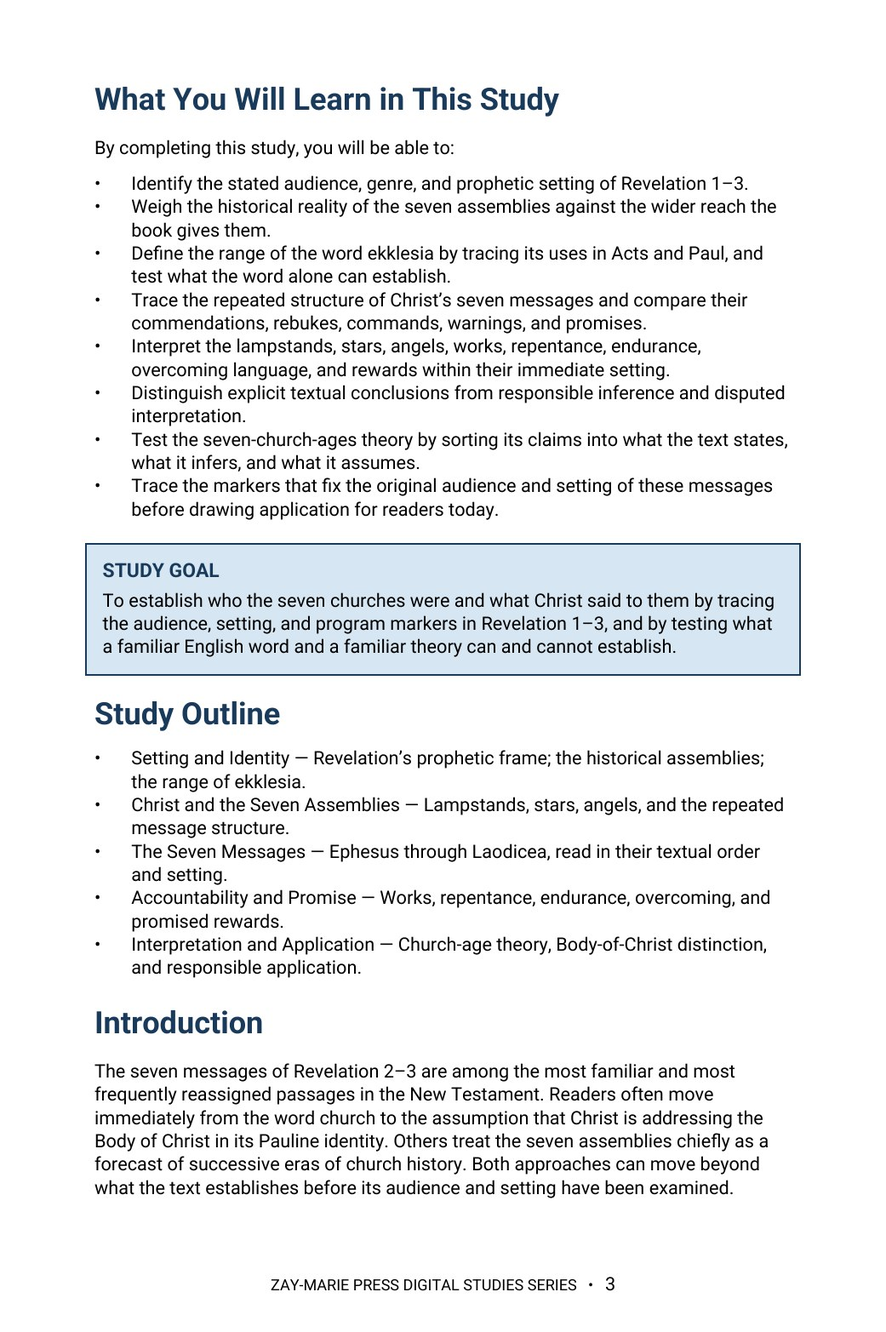
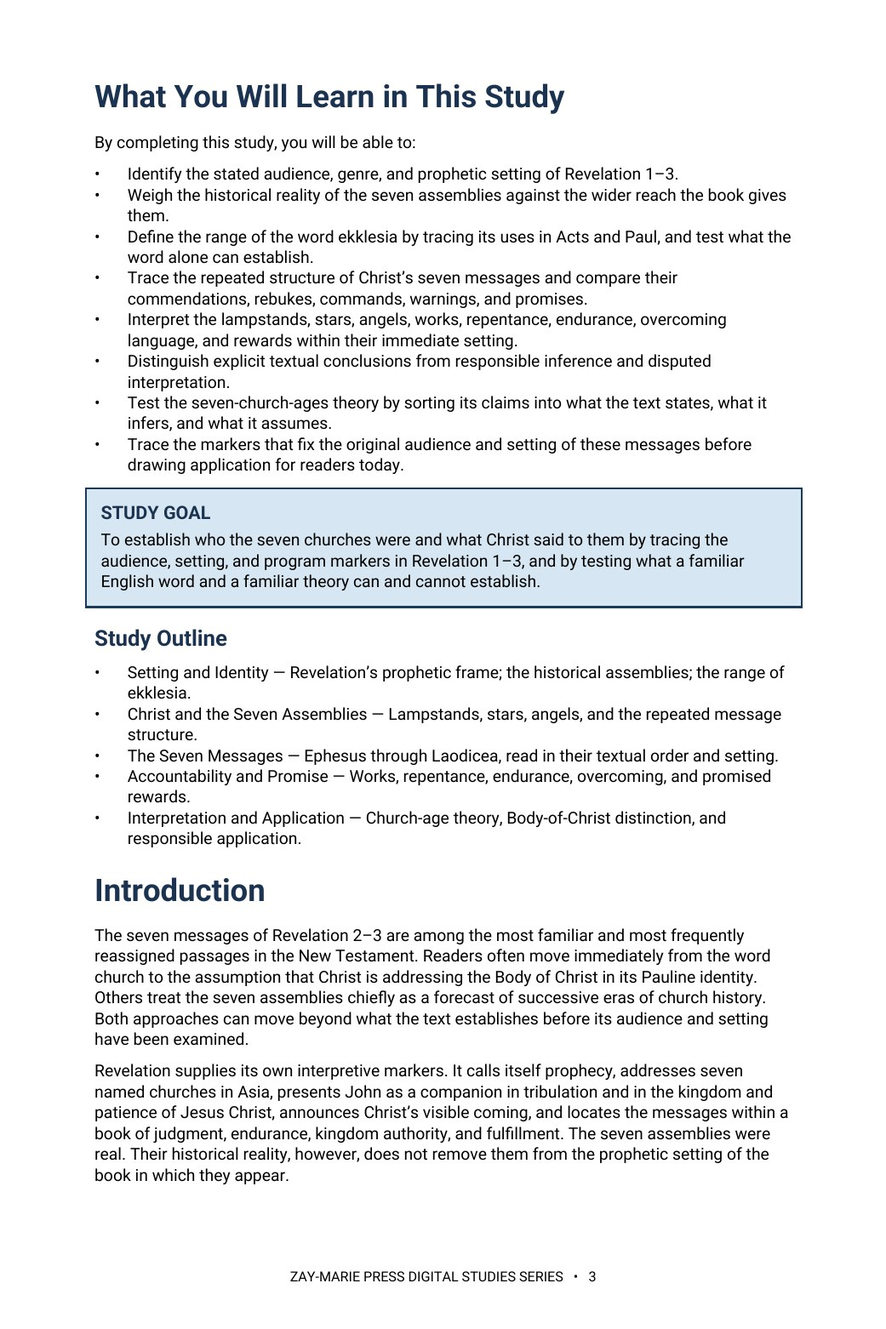
Study 26: retrofit website step (16 pages, previews 2/3/10, trackers v1.37/v1.131)
Claude-Session: https://claude.ai/code/session_01KcENxFzE91mCRyTPWhcwnE

Changed region(s): [[0.0922, 0.0615, 0.9222, 0.9219], [0.3074, 0.9526, 0.6455, 0.9834]]

diff --git a/study-26-the-seven-churches-of-revelation.html b/study-26-the-seven-churches-of-revelation.html
@@ -7,7 +7,7 @@
 <section class="detail-section soft"><div class="wrap"><div class="eyebrow">WHAT YOU’LL STUDY</div><h2>Identify the Assemblies Before Assigning Their Messages</h2><div class="study-points"><div class="study-point"><h3>Revelation’s Prophetic Setting</h3><p>Identify the audience, genre, kingdom language, coming judgment, and prophetic markers supplied by Revelation itself.</p></div><div class="study-point"><h3>Seven Historical Assemblies</h3><p>Examine the named cities and the real conditions Christ commends, exposes, corrects, and judges.</p></div><div class="study-point"><h3>Ekklesia and Identity</h3><p>Trace how the Greek word for assembly is used in Acts and Paul, and test what the word alone can establish.</p></div><div class="study-point"><h3>Christ Among the Lampstands</h3><p>Interpret the lampstands, stars, and angels within Christ’s authority over the seven assemblies.</p></div><div class="study-point"><h3>Overcoming and Reward</h3><p>Trace repentance, endurance, promised rewards, and their connections with Revelation’s later chapters.</p></div><div class="study-point"><h3>The Church-Ages Theory</h3><p>Test the seven-age interpretation by sorting its claims into what the text states, what it infers, and what it assumes.</p></div></div></div></section>
 <section class="detail-section cream"><div class="wrap"><div class="eyebrow">KEY SCRIPTURES</div><h2>Trace the Messages Through Revelation</h2><div class="scripture-grid"><div class="scripture-card"><h3>Revelation 1:1–11</h3><p>Prophecy, named recipients, Christ’s coming, tribulation, kingdom, and the command to write.</p></div><div class="scripture-card"><h3>Revelation 1:12–20</h3><p>Christ among the lampstands and the inspired identification of the stars and lampstands.</p></div><div class="scripture-card"><h3>Revelation 2:1–29</h3><p>Ephesus, Smyrna, Pergamos, and Thyatira: commendation, rebuke, repentance, endurance, and promise.</p></div><div class="scripture-card"><h3>Revelation 3:1–22</h3><p>Sardis, Philadelphia, and Laodicea: watchfulness, preservation, correction, and inheritance.</p></div><div class="scripture-card"><h3>Psalm 2:1–12</h3><p>Messianic authority over the nations behind the promise in Revelation 2:26–27.</p></div><div class="scripture-card"><h3>Isaiah 22:20–25</h3><p>The key imagery Christ applies to His authority in Revelation 3:7.</p></div><div class="scripture-card"><h3>Revelation 20–22</h3><p>Reign, the second death, New Jerusalem, the tree of life, and promised inheritance.</p></div><div class="scripture-card"><h3>Ephesians 1:15–23; 3:1–12</h3><p>The Body’s identity and Mystery setting revealed through Paul for careful comparison.</p></div></div></div></section>
 <section class="detail-section"><div class="wrap"><div class="eyebrow">FROM THE STUDY</div><h2>Meaning Comes Before Assignment</h2><div class="excerpt"><blockquote>“The word church identifies an assembly. It does not, by itself, identify that assembly as the Church which is Christ’s Body.”</blockquote><p>Revelation’s audience markers, prophetic setting, warnings, rewards, and internal connections must govern the identity and assignment of the seven messages.</p></div></div></section>
-<section class="detail-section soft"><div class="wrap"><div class="eyebrow">A LOOK INSIDE</div><h2>Preview the Study Before You Purchase</h2><p class="preview-instruction">Click any page to enlarge it for reading.</p><div class="preview-grid"><div class="preview-card"><a class="preview-image-link" data-preview-lightbox href="assets/study-26-page-2.jpg"><img src="assets/study-26-page-2.jpg" alt="Study 26 interior preview — page 2, table of contents"/></a><div class="page-no">Page 2</div><h3>Table of Contents</h3><p>See the full structure of the study, from the introduction through the final synthesis.</p></div><div class="preview-card"><a class="preview-image-link" data-preview-lightbox href="assets/study-26-page-3.jpg"><img src="assets/study-26-page-3.jpg" alt="Study 26 interior preview — page 3, what you will learn"/></a><div class="page-no">Page 3</div><h3>What You Will Learn</h3><p>See the skills you will practice and the study goal at a glance.</p></div><div class="preview-card"><a class="preview-image-link" data-preview-lightbox href="assets/study-26-page-11.jpg"><img src="assets/study-26-page-11.jpg" alt="Study 26 interior preview — page 11, the promises to the overcomers"/></a><div class="page-no">Page 11</div><h3>The Promises to the Overcomers</h3><p>Follow each promise to the overcomer into Revelation’s closing chapters.</p></div></div></div></section>
+<section class="detail-section soft"><div class="wrap"><div class="eyebrow">A LOOK INSIDE</div><h2>Preview the Study Before You Purchase</h2><p class="preview-instruction">Click any page to enlarge it for reading.</p><div class="preview-grid"><div class="preview-card"><a class="preview-image-link" data-preview-lightbox href="assets/study-26-page-2.jpg"><img src="assets/study-26-page-2.jpg" alt="Study 26 interior preview — page 2, table of contents"/></a><div class="page-no">Page 2</div><h3>Table of Contents</h3><p>See the full structure of the study, from the introduction through the final synthesis.</p></div><div class="preview-card"><a class="preview-image-link" data-preview-lightbox href="assets/study-26-page-3.jpg"><img src="assets/study-26-page-3.jpg" alt="Study 26 interior preview — page 3, what you will learn"/></a><div class="page-no">Page 3</div><h3>What You Will Learn</h3><p>See the skills you will practice and the study goal at a glance.</p></div><div class="preview-card"><a class="preview-image-link" data-preview-lightbox href="assets/study-26-page-10.jpg"><img src="assets/study-26-page-10.jpg" alt="Study 26 interior preview — page 10, the promises to the overcomers"/></a><div class="page-no">Page 11</div><h3>The Promises to the Overcomers</h3><p>Follow each promise to the overcomer into Revelation’s closing chapters.</p></div></div></div></section>
 <section class="detail-section"><div class="wrap"><div class="eyebrow">WHAT’S INCLUDED</div><h2>A Focused Study Built for<br>Understanding and Teaching</h2><div class="includes-grid"><div class="include-item"><h3>Prophetic Setting</h3><p>Read Revelation 1–3 within the genre, audience, kingdom, tribulation, and judgment markers supplied by the book.</p></div><div class="include-item"><h3>Historical Assemblies</h3><p>Examine all seven named churches and the specific conditions Christ addresses in each assembly.</p></div><div class="include-item"><h3>Ekklesia Word Study</h3><p>Distinguish the lexical meaning of assembly from the theological identity established by context and revelation.</p></div><div class="include-item"><h3>Message Structure</h3><p>Compare Christ’s self-identification, knowledge, evaluation, commands, warnings, calls to hear, and promises.</p></div><div class="include-item"><h3>Overcomer Promises</h3><p>Trace life, vindication, kingdom authority, throne, temple, and New Jerusalem themes through Revelation.</p></div><div class="include-item"><h3>Evidence Categories</h3><p>Separate explicit textual conclusions, responsible inferences, and disputed interpretations.</p></div><div class="include-item"><h3>Programmatic Distinction</h3><p>Compare Revelation’s prophetic markers with the Mystery identity of the Body revealed through Paul.</p></div><div class="include-item"><h3>Teaching and Discussion Tools</h3><p>Use the summary, key distinctions, Scripture tracing, review questions, teaching outline, and guided further study.</p></div></div></div></section>
 <section class="detail-section cream"><div class="wrap"><div class="final-buy"><div><div class="eyebrow">STUDY 26 · DIGITAL STUDY</div><h2>The Seven Churches of Revelation</h2><p>Digital PDF · For personal use</p></div><div class="final-offer"><div class="detail-price">$5.99</div><span class="detail-button pending" aria-disabled="true">Checkout Coming Soon</span></div></div><a class="back-link" href="digital-studies.html">← Back to All Digital Studies</a></div></section><section class="study-method-course-bridge"><div class="wrap"><div class="study-method-course-panel"><div><div class="eyebrow">BUILD THE INTERPRETIVE METHOD</div><h2>Want More Than a Focused Study?</h2><p>Digital Studies examine particular biblical subjects and difficult passages. The 40-lesson Biblical Hermeneutics course teaches a complete, repeatable method for establishing meaning in context, determining proper assignment, and making responsible application.</p></div><a class="btn btn-primary" href="biblical-hermeneutics-course.html">BIBLICAL HERMENEUTICS COURSE</a></div></div></section></main>
 <div class="preview-lightbox" id="preview-lightbox" role="dialog" aria-modal="true" aria-label="Expanded study preview"><button class="preview-lightbox-close" type="button" aria-label="Close preview">×</button><img id="preview-lightbox-image" alt=""></div><footer class="site-footer"><div class="wrap footer-grid"><div class="footer-about"><h3>Zay-Marie Press</h3><p class="footer-tagline"><em>Where the Bible Means What It Says.</em></p><p>Zay-Marie Press is a Christian theological publisher dedicated to producing doctrinally precise, carefully structured biblical resources that equip pastors, teachers, and serious students with clarity, depth, and Scripture-anchored truth.</p><p><a href="https://zaymariepress.com">zaymariepress.com</a><br/><a href="mailto:info@zaymariepress.com">info@zaymariepress.com</a></p></div><div class="footer-column"><h3>Explore</h3><div class="footer-links-stacked"><a href="books.html">Books</a><br/><a href="series.html">Series</a><br/><a href="biblical-hermeneutics-course.html">Course</a><br/><a href="digital-studies.html">Digital Studies</a><br/><a href="resources.html">Resources</a><br/><a href="bible-book-summaries.html">Bible Book Summaries</a><br/><a href="doctrinal-packets.html">Doctrinal Packets</a><br/><a href="historical-drift.html">Historical Drift</a><br/><a href="about.html">About</a><br/><a href="contact.html">Contact</a></div></div><div class="footer-column"><h3>Reader Support</h3><div class="footer-links-stacked"><a href="reader-support.html#faq">FAQ</a><br/><a href="reader-support.html#shipping-returns">Shipping &amp; Returns</a><br/><a href="reader-support.html#digital-downloads">Digital Downloads</a><br/><a href="reader-support.html#contact-support">Contact Support</a></div></div><div class="footer-column"><h3>Acts Overlap</h3><p><strong>Acts Overlap Theology Series</strong></p><p><em>Two Distinct Streams. One Overlap.</em></p><p><a href="series.html">Series Overview</a></p></div></div><div class="wrap footer-bottom">© 2026 Zay-Marie Press. All rights reserved.</div></footer><script src="site.js"></script><script>const lightbox=document.getElementById('preview-lightbox'),lightboxImage=document.getElementById('preview-lightbox-image'),closeLightbox=()=>{lightbox.classList.remove('open');lightboxImage.src='';};document.querySelectorAll('[data-preview-lightbox]').forEach(link=>link.addEventListener('click',event=>{event.preventDefault();lightboxImage.src=link.href;lightboxImage.alt=link.querySelector('img').alt;lightbox.classList.add('open');}));document.querySelector('.preview-lightbox-close').addEventListener('click',closeLightbox);lightbox.addEventListener('click',event=>{if(event.target===lightbox)closeLightbox();});document.addEventListener('keydown',event=>{if(event.key==='Escape')closeLightbox();});</script></body></html>

diff --git a/site.js b/site.js
@@ -62,7 +62,7 @@ const resourceModal=document.querySelector('#resource-modal'), resourceModalTitl
 if(resourceModal&&resourceModalTriggers.length){const closeResourceModal=()=>{resourceModal.hidden=true;document.body.classList.remove('resource-modal-open');lastResourceTrigger?.focus();};resourceModalTriggers.forEach(trigger=>trigger.addEventListener('click',()=>{lastResourceTrigger=trigger;if(resourceModalTitle)resourceModalTitle.textContent=trigger.dataset.title||'Resource';if(resourceModalDescription)resourceModalDescription.textContent=trigger.dataset.description||'';if(resourceModalLink){resourceModalLink.href=trigger.dataset.href||'#';resourceModalLink.textContent=trigger.dataset.linkText||'OPEN RESOURCE';}resourceModal.hidden=false;document.body.classList.add('resource-modal-open');resourceModalClose?.focus();}));resourceModalClose?.addEventListener('click',closeResourceModal);resourceModal.addEventListener('click',e=>{if(e.target===resourceModal)closeResourceModal();});document.addEventListener('keydown',e=>{if(e.key==='Escape'&&!resourceModal.hidden)closeResourceModal();});}
 
 /* Display the verified final-PDF page count at the primary purchase decision point. */
-const digitalStudyPageCounts={1:17,2:14,3:16,4:18,5:16,6:16,7:14,8:13,9:16,10:20,11:15,12:15,13:19,14:15,15:16,16:16,17:18,18:18,19:16,20:16,21:17,22:16,23:14,24:16,25:17,26:18,27:16,28:16,29:16,30:17,31:19,32:16,33:16,34:16,35:16,36:16,37:16,38:16,39:16,40:16,41:16,42:16,43:16,44:16,45:16,46:16,47:16,48:16,49:17,50:16,51:16,52:16,53:16,54:16,55:16,56:16,57:16,58:16,61:16,62:16,63:16,64:16,65:16,66:16,67:16,68:16,69:16,70:16,71:16};
+const digitalStudyPageCounts={1:17,2:14,3:16,4:18,5:16,6:16,7:14,8:13,9:16,10:20,11:15,12:15,13:19,14:15,15:16,16:16,17:18,18:18,19:16,20:16,21:17,22:16,23:14,24:16,25:17,26:16,27:16,28:16,29:16,30:17,31:19,32:16,33:16,34:16,35:16,36:16,37:16,38:16,39:16,40:16,41:16,42:16,43:16,44:16,45:16,46:16,47:16,48:16,49:17,50:16,51:16,52:16,53:16,54:16,55:16,56:16,57:16,58:16,61:16,62:16,63:16,64:16,65:16,66:16,67:16,68:16,69:16,70:16,71:16};
 const digitalStudyMatch=window.location.pathname.match(/\/study-(\d+)-/i);
 const digitalStudyFormat=document.querySelector('.detail-hero .detail-format');
 if(digitalStudyMatch&&digitalStudyFormat){const studyNumber=Number(digitalStudyMatch[1]),pageCount=digitalStudyPageCounts[studyNumber];if(pageCount)digitalStudyFormat.textContent=`Digital PDF · ${pageCount} Pages`;}

diff --git a/CLAUDE.md b/CLAUDE.md
@@ -20,7 +20,7 @@ These are kept in the repo at `controlling-documents/` and are the current versi
 - As of v1.47 (publisher directive, 2026-10-02), §6 adds the **Interior Page Geometry and Text Layout Standard**, written into this file in the same pass: every Digital Study, earlier studies included, is set on the later studies' page and layout, not only in Roboto at the same sizes. Page 483.846 × 725.754 pt (9677 × 14515 twips) for cover and interior; cover its own full-bleed section (360 twip margins, no footer); interior margins top 864, bottom 1224, left/right 1031, header 400, footer 475; body left-aligned and flush left with no first-line indent (9 pt black Roboto Regular, 6 pt after, 0 before, 1.08); bold only for run-in leads ("Read:", "Purpose:", "Bring Your Findings Together:") and short emphasis, never a whole paragraph; lists 0 pt after each item and 6 pt after the last, 1.08; callout boxes 7815 twips wide with −100 twip indent; TOC right tab with dot leaders at 7615 twips; only the TOC and What You Will Learn start new pages, later sections flow continuously, and the imprint never stands alone. An earlier study built on any other page size (Letter 612 × 792, 432 × 648) is rebuilt to this geometry when reopened or retrofitted, the page count is recounted and the website updated, and the Heading 1 14 pt / TOC-spacing exemptions for Studies 1–5 and 9 no longer apply to a reopened study. In every study check (Step 1) measure page size, margins, first-line indents, whole-paragraph bold, list spacing, callout width and the TOC tab against Study 52 and report differences. Study 1 is the first earlier study rebuilt to it (17 pages). Preview images are rendered at the page's own aspect (1041×1562 for this page), not stretched.
 **`controlling-documents/Digital_Studies_Relationship_Map_v1.39.md`** — records each study's distinct subject, its related studies, the eight priced six-study collections, the Paul's Missionary Journeys cross-reference map, and the five primary catalog categories (currently version 1.39, covers Studies 1–71; update it as new studies publish, bump the version number, rename the file to match, and log the change in its own version-history table — mirroring the Master Standard's `_vX.Y` filename convention). Check a proposed topic against it before recommending or writing a new study. (2026-09-28: the file was missing from this repo despite this note referencing it; replaced from the publisher's copy and bumped v1.15→v1.25 in the same pass. If this note ever again points to a version not present under `controlling-documents/`, ask the publisher for a copy rather than proceeding without the check.)
 - **`controlling-documents/Digital_Studies_Category_Standard_v1.1.md`** — FINAL and binding (publisher, 2026-10-01): the rules for the five primary catalog categories (Foundations, Israel & Prophecy, Body of Christ, Passages, Doctrinal Themes), the ordered decision procedure for new studies, the precedents, all 71 fixed assignments, and the cover-label form for each category. Read it before placing any card or cover label. Do not ask the publisher where a study belongs; apply the procedure and state the result. Only the publisher changes a ruling; then bump this Standard's version and filename, re-letter the cover, and update the Relationship Map.
-- **`controlling-documents/Doctrinal_Upgrade_Retrofit_Plan_v1.36.md`** — working tracker for retrofitting Studies 1–59 to the 2026-10-02 doctrinal upgrade (Framework/PAM v1.1, Master Standard v1.40, Rules 7–17): withdrawn-wording search keys, impact tiers, waves and the per-study method. Read it before continuing the retrofit in any session; update status, bump the version and rename the file as work proceeds.
+- **`controlling-documents/Doctrinal_Upgrade_Retrofit_Plan_v1.37.md`** — working tracker for retrofitting Studies 1–59 to the 2026-10-02 doctrinal upgrade (Framework/PAM v1.1, Master Standard v1.40, Rules 7–17): withdrawn-wording search keys, impact tiers, waves and the per-study method. Read it before continuing the retrofit in any session; update status, bump the version and rename the file as work proceeds.
 - **`controlling-documents/Doctrinal_Packet_Standard_v0.3.md`** — Doctrinal Packet Standard (DRAFT; §7 approved). Governs the separate Doctrinal Packets product strand (5-page interpretive PDFs per Bible book — a print-friendly cover as page 1 plus 4 content pages, $2.99, KJV, pilot: Genesis, live at `packet-genesis.html`, hub `doctrinal-packets.html`; site pages say "5 Pages", cover styles live in `packets.css`, Old Testament blue and New Testament soft pale green, hub listed in Bible order). **Preview rule (publisher directive, 2026-09-29, packets only):** previews show about one page's worth in two cropped views (top of page 1 through the anchor texts; the chart section) — never the exegesis, architecture, Mystery contrast, logic chain, outline, or closing. Master Standard §16/§17 still govern Digital Studies. Bump the version and rename the file as the Standard is finalized.
 - **`controlling-documents/Preview_Page_Spoiler_Retrofit_Audit_v1.4.md`** — working tracker for the Studies 1–60 preview-page conclusion-spoiler retrofit (see the section below). Read it before continuing that audit in any session; update its status fields and changelog, bump the version, and rename the file to match as the audit proceeds — same `_vX.Y` convention as the other controlling documents. As of v1.1, the website-side half was DONE: all 60 studies' "What You'll Study" text was judged against the rule (methodology documented in the file) and 22 points across 11 studies were rewritten and pushed; an unrelated Study 22 content bug (Study 21's content had leaked into it) was also found and fixed. As of v1.2, the publisher supplied Studies 1–60's interior production PDFs and the interior-PDF half was also surveyed (read-only): 10 studies (37, 41, 45, 47, 48, 49, 51, 52, 53, 54) were found to have at least one interior "What You Will Learn" violation, 50 studies were confirmed compliant, and the orphaned `assets/study-45-sanctification-under-grace.docx` (removed from the repo per the publisher in v1.0) was confirmed word-for-word identical to Study 45's actual production interior PDF content. As of v1.3, the publisher supplied editable DOCX sources for all 10 violating studies; all 15 violating points were rewritten and approved, delivered as corrected final PDFs, and — along the way — a second defect was found and fixed (Studies 47 and 48's source DOCX still had an unintegrated cover placeholder despite both being long-published live with real covers; fixed by inserting the existing approved cover art). The website's "What You Will Learn" preview image (`study-NN-page-3.jpg`) was regenerated from the corrected content for all 10 studies and pushed to `main` (commit `cea1859`), verified against a fresh clone. **The website side of this audit is now fully compliant for all 60 studies.** Outstanding: the publisher's purchasable interior PDF files themselves have corrected versions delivered, but distribution to existing purchasers was decided by the publisher on 2026-09-29: silent swap of the files behind the existing downloads, no reissue notice (recorded in the v1.4 changelog entry; the product files are not in this repo).
 

diff --git a/controlling-documents/Doctrinal_Upgrade_Retrofit_Plan_v1.37.md b/controlling-documents/Doctrinal_Upgrade_Retrofit_Plan_v1.37.md
@@ -48,6 +48,7 @@ Working tracker for correcting published studies to the Framework/PAM v1.1, Mast
 | 8 The Day of Christ | Tier 2 read (Day-of-the-Lord boundary, anchors, framework wording) | DONE 2026-10-02 (v1.34): interior corrected and rebuilt to the Study 52 page geometry (13 pp, Roboto Regular/Bold/Italic). Day of Christ / Day of the Lord reading already conformed; added the Body-not-in-the-Day line (section 13) and the Philippians/Thessalonians/Colossians reader-facing anchor; 4 'framework' uses reworded; lowercase 'christ/pauline' and stray capitals fixed; imprint to the standard text. Titus 2:13 left unanchored (no ruling). Website: site.js 8:13, '13-Page', 'ready outline', previews 2/3/5 at 1041x1562. |
 | 10 Daniel's Seventieth Week | Tier 2 read (Acts 28, overlap, remnant, Revelation, Rule 18, Romans 11 passing cite, anchors) | DONE 2026-10-02 (v1.35): no DOCX existed, so a DOCX was rebuilt from the publisher's Roboto PDF (text verified word for word; only the listed edits differ) on the Study 52 page geometry (20 pp). Acts 28 standing wording in five places; overlap and Rule 17 sentences (section 3); Body-absent-from-the-week line; Revelation line; 2 Thessalonians anchor; Rule 18 short form (Investigation 2); Romans 11 four-point note + triad (Investigation 5); 'framework' reworded (section 2 now 'Structure'); imprint standard; approved ISRAEL & PROPHECY cover used (PDF carried an older cover). The page-6 diagram image is unchanged at the publisher's direction (title 'IN THE ACTS OVERLAP FRAMEWORK', 'PROPHECY SUSPENDED' marker, caption). Website: site.js 10:20, '20-Page', 'ready outline', previews 2/3/4 at 1041x1562. Title (Introduction) TOC entry left as published. |
 | 23 The 144,000 | Tier 2 read (Revelation, Body absent, Gentile multitude, Romans 11 passing cite in the diagram, anchors) | DONE 2026-10-02 (v1.36): rebuilt to the Study 52 page geometry (16 → 14 pp, Roboto Regular/Bold). Added the Body-not-in-Revelation line (section 17), Gentile multitude conformed to Rule 14 (section 7), 'Israel remains Israel, and the Body is not Israel' and 'belongs to the Mystery revealed through Paul' (section 18); Romans 11 four boundaries and triad added under the diagram (diagram image unchanged); no anchor needed (Revelation assigned); no internal terms. Third preview is now PDF page 9 (study-23-page-9.jpg). Imprint extra KJV sentence left for Wave 5. |
+| 26 The Seven Churches of Revelation | Tier 2 read (Revelation assigned, Body absent, anchors, internal terms) | DONE 2026-10-02 (v1.37): rebuilt to the Study 52 page geometry (18 → 16 pp, Roboto Regular/Bold). Removed 'The Framework notes', 'The Framework Control Document', 'the Framework’s taxonomy' and the false 'Program Assignment Manual assigns no program to Revelation' line; generic 'framework' removed; hedge replaced by the standing Revelation line (Body absent; Revelation, like Daniel’s 70th week, wholly Israel’s Prophecy Program) in section 14; Philadelphia/Rev 3:10 not a statement about the Body; Colossians anchor added (section 3). Third preview now PDF page 10 (study-26-page-10.jpg). Imprint extra KJV sentence left for Wave 5. |
 | 39 The Church's Relationship to Israel's Scriptures | Abrahamic/covenant participation + overlap sentence | DONE 2026-10-02 (v1.23): interior corrected (16 pp, Roboto). Withdrawn overlap sentence replaced with the standing sentence and Acts 28 'not abolition and not a transfer' added (§9); 'Gentiles participate spiritually' replaced by the standing Galatians 3 sentence (§8) and 'whole/every covenant term' partial-transfer wording tightened (§8, Study Summary, Key Distinctions table); Romans 11 four-point list and triad added (Introduction); 2 Timothy and Philippians anchors converted and a Colossians anchor added. Sections moved down: TOC updated (7 numbers); 16 pp. Website: previews 2, 3, 5 re-rendered at 1041x1565; site.js 39:16 unchanged |
 | 40 Who Is Abraham's Seed? | Gal 3 / Abrahamic participation (core) | DONE 2026-10-02 (v1.22): interior corrected (16 pp, Roboto). Withdrawn overlap sentence replaced with the standing sentence (Introduction); Romans 11 four-point list and triad added (Introduction); the 'Gentiles participate spiritually / Abrahamic heirship, benefit, inheritance, connection' family replaced with the standing Galatians 3 sentence and plain wording (§6, §8, §10, Study Summary, Key Distinctions table); Romans 4 'participate in promise' and Teaching Outline 'share that benefit' reworded. Sections moved down: TOC updated (Conclusion p10, Scripture-Tracing p11, Guided Further Study p16); 16 pp. Website: preview pages 2, 3 and 4 re-rendered; site.js 40:16 unchanged |
 | 52 Sonship and Adoption | Gal 3 / Abrahamic participation | DONE 2026-10-02 (v1.21): interior corrected (16 pp, Roboto). Withdrawn Galatians 3:26–29 'Gentiles participate spiritually / ethnic distinction is kept' wording replaced by the standing Galatians 3 sentence (3.4) and the 'participation in the seed is spiritual' line reworded; Study 40 pointer parenthetical removed; nine 'The Framework does not assign…' anchors and the Hebrews sentence converted to the reader-facing forms; Romans 11 four-point list and triad added (Group 3). Shorter anchors moved sections up a page, so TOC numbers updated (§5 p9, §6 p11, Conclusion p12, etc.); total still 16 pp. Website: page-2 (TOC) preview re-rendered; pages 3 and 5 unchanged |
@@ -118,3 +119,4 @@ Working tracker for correcting published studies to the Framework/PAM v1.1, Mast
 - v1.34 (2026-10-02): Study 8 retrofit complete (see row). Next: Wave 4 remainder (10, 23, 26, 29, 31, 32, 33): DOCX needed from the publisher for each. Open: ask whether Titus joins the anchored-letters list.
 - v1.35 (2026-10-02): Study 10 retrofit complete (see row). Next: Wave 4 remainder (23, 26, 29, 31, 32, 33): DOCX needed from the publisher for each. Open: Titus anchor ruling; Study 10 DOCX now exists (first editable source).
 - v1.36 (2026-10-02): Study 23 retrofit complete (see row). Next: Wave 4 remainder (26, 29, 31, 32, 33): DOCX needed from the publisher for each. Open: Titus anchor ruling.
+- v1.37 (2026-10-02): Study 26 retrofit complete (see row). Next: Wave 4 remainder (29, 31, 32, 33): DOCX needed from the publisher for each. Open: Titus anchor ruling.

diff --git a/controlling-documents/Digital_Studies_PAM_Audit_v1.131.md b/controlling-documents/Digital_Studies_PAM_Audit_v1.131.md
@@ -360,3 +360,4 @@ Study 15 PDF not yet supplied. Typography: none of Studies 2, 3, 6, 8 is in EB G
 - v1.128 (2026-10-02): Study 8 retrofitted: Body-not-in-the-Day line, Philippians/Thessalonians/Colossians anchor, 'framework' wording removed; rebuilt to the standard page geometry (13 pp); Titus 2:13 unanchored pending ruling.
 - v1.129 (2026-10-02): Study 10 retrofitted (DOCX rebuilt from the publisher's PDF; standing Acts 28/overlap/Rule 17/Daniel/Revelation/Rule 18/Romans 11 wording, anchor, 'framework' removed; 20 pp on the standard geometry); diagram image left unchanged by the publisher.
 - v1.130 (2026-10-02): Study 23 retrofitted: Body-not-in-Revelation line, Gentile multitude and Israel/Body wording conformed, Romans 11 boundaries added under the diagram; rebuilt to the standard page geometry (14 pp); third preview is PDF page 9.
+- v1.131 (2026-10-02): Study 26 retrofitted: internal terms removed (Framework, Framework Control Document, taxonomy, Program Assignment Manual), Revelation standing line, Rev 3:10 and Colossians anchor added; rebuilt to the standard page geometry (16 pp); third preview is PDF page 10.
